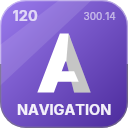
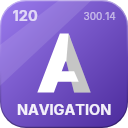
UI packages 0.1.0-alpha.2
On engine packages 0.1.0-alpha.5. The packages' icons redrawn with the bevel that fades down the sides, and an icon
for Adamantium.UI.LanguageServer, first published in this version. Adamantium.UI depends on the Adamantium.DBus package
as it does on its project, or a build from packages did not compile. adam-auto is not packed yet. Unreleased becomes
0.1.0-alpha.2.

Changed region(s): [[0.0625, 0.9375, 0.9375, 1.0], [0.9375, 0.1875, 1.0, 0.9375], [0.0, 0.1875, 0.0625, 0.9375]]

diff --git a/CHANGELOG.md b/CHANGELOG.md
@@ -5,6 +5,8 @@ All packages share one version.
 
 ## Unreleased
 
+## 0.1.0-alpha.2 - 2026-11-03
+
 ### Added
 
 - Text set inside any shape: `TextBlock.Shape` (a geometry in the block's own coordinates) fills its closed figures
@@ -1856,8 +1858,8 @@ All packages share one version.
   (from 0, `[-1]` the last), and `parent`, `next` and `previous` step from the element before -
   `id=Orders>type=DataItem[2]/name=Delete`, `id=Cut/next`. In code: `By.At`, `By.Parent` / `Next` / `Previous`,
   `AutomationElement.Child`, `At`, `Parent()`, `Next()`, `Previous()`.
-- `adam-auto` is a package of its own, `Adamantium.UI.Automation.Cli`, installed as a .NET tool
-  (`dotnet tool install -g Adamantium.UI.Automation.Cli`); `adam-auto start --exe <path>` starts an application of yours.
+- `adam-auto` is a .NET tool of its own, `Adamantium.UI.Automation.Cli`; `adam-auto start --exe <path>` starts an
+  application of yours. Not published in this version - built from the repository.
 - `<AdamantiumRequireAutomationId>true</AdamantiumRequireAutomationId>` in a project makes a build warning (AUI011) of
   every button, field, list, slider... in its markup that has neither `AutomationProperties.AutomationId` nor `x:Name`
   to be found by. Controls in templates are left out. Off unless set.
